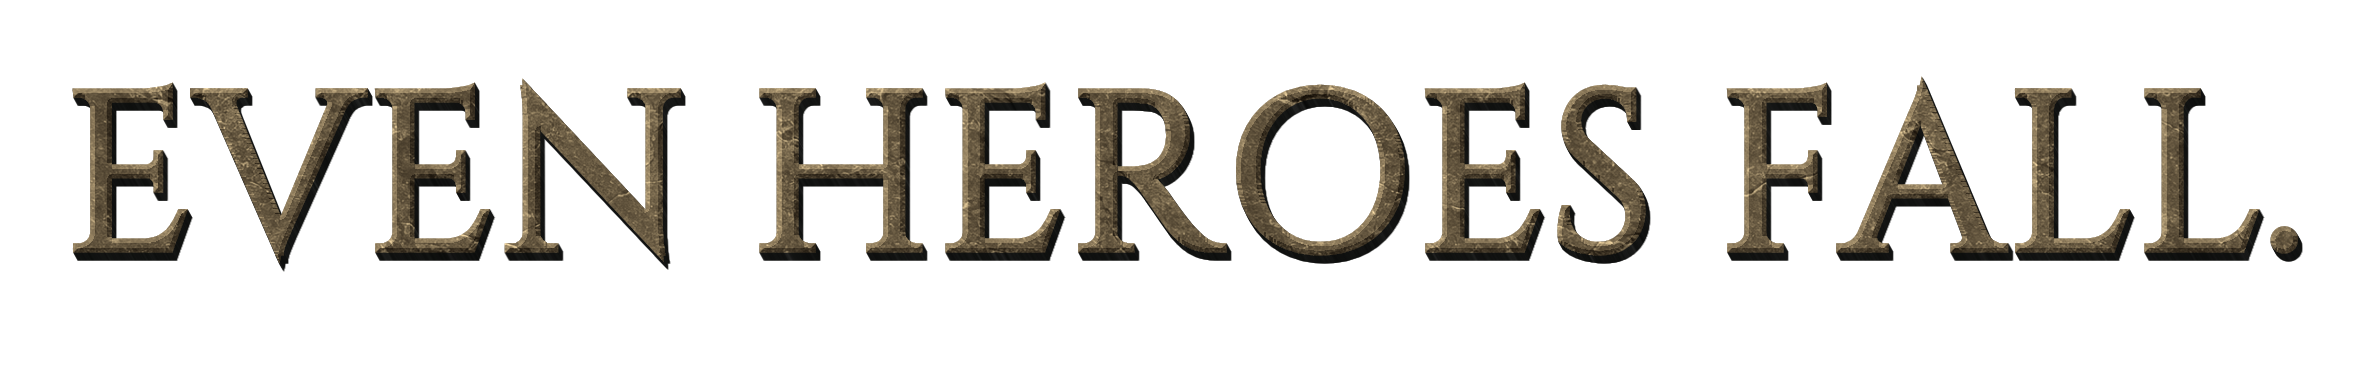
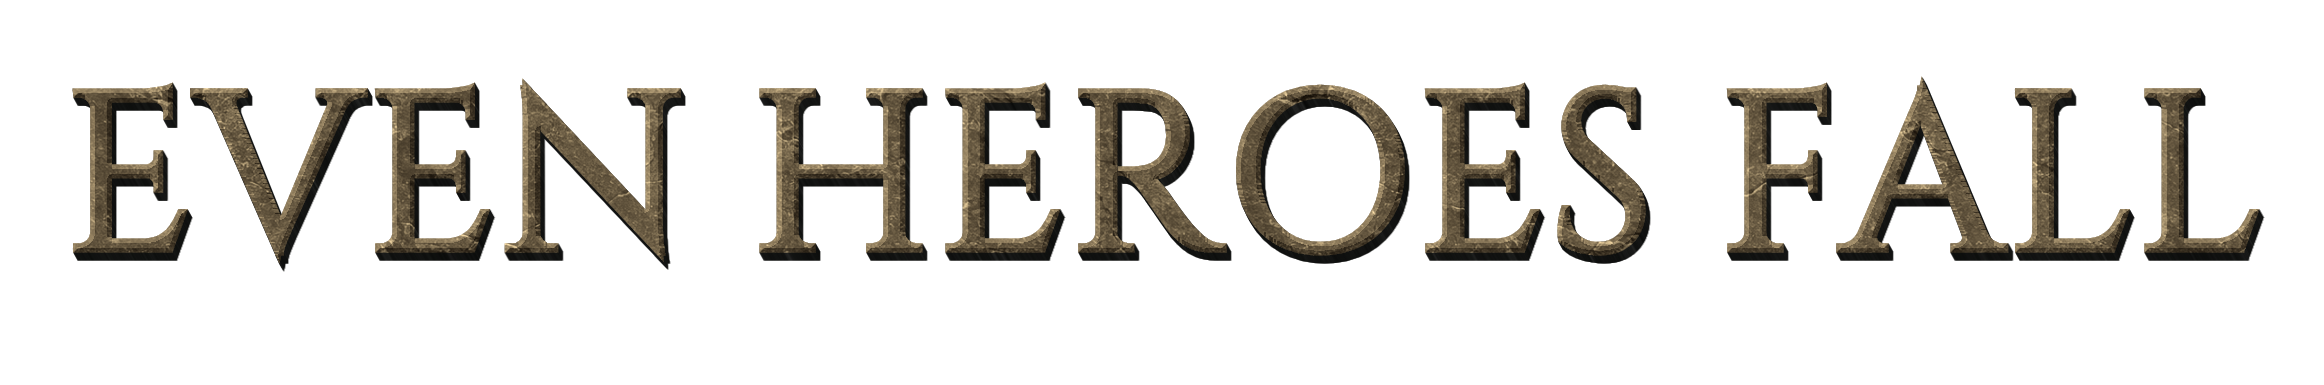
Stack post-game actions and balance the results layout

Changed region(s): [[0.031, 0.2182, 0.9914, 0.6857]]

diff --git a/studies/post-game/IMPLEMENTATION.md b/studies/post-game/IMPLEMENTATION.md
@@ -1,5 +1,7 @@
 # Results and Hall of Legends implementation
 
+Latest layout: post-game actions always form a centered vertical stack, retaining their sequential drop-in and yellow fire. Heading, panel and menu are sized together and vertically centered, with panel scrolling reserved for short/narrow windows. `AREA X/4` is inside the score half below FINAL SCORE, at the same 71px local baseline center and 14px lettering height as the top stat labels (12px in compact layout). The defeat heading is `EVEN HEROES FALL` without a period. Tests verify centered, non-overlapping stacked actions at every supported test size; these changes supersede the horizontal-action notes below.
+
 Latest text treatment: the right-hand section is **STATS**. `bake-results.mjs` now invokes the same `stone-text.js` renderer, menu stone material, bevel, extrusion and palette transforms used by the Hall/Controls heading and HUD score baker. Runtime brightness matches the HUD. Cinzel headings/score and Oswald stats retain live content and shared glyph baselines. This replaces the custom ivory renderer described in earlier revision notes below. NEW combines a letter-shaped, multi-radius amber bloom with broader reflected light and a brighter stone core.
 
 ## Mockup comparison revision
